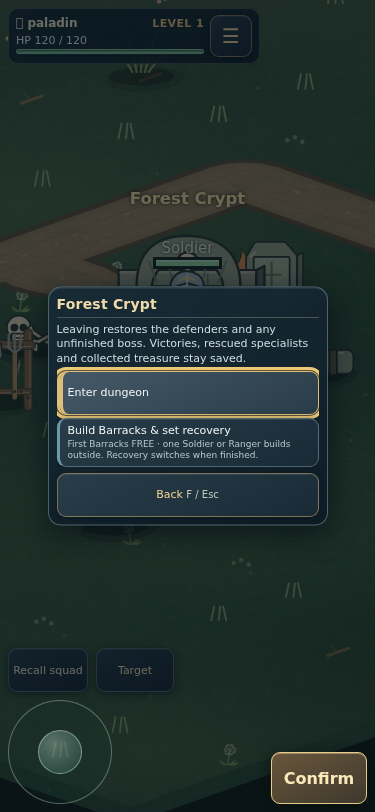
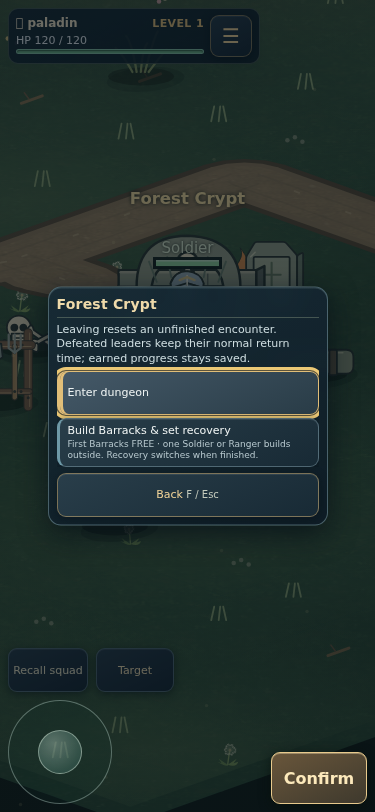
Finish dev131 release receipt and restore normal workflow [skip ci]

Changed region(s): [[0.1467, 0.4002, 0.8213, 0.4618]]

diff --git a/AGENTS.md b/AGENTS.md
@@ -1,4 +1,4 @@
-**Prepared dev.131 — dungeon camps and leader return rules:** Two-action first entrance menu builds a nearby Basic camp and selects recovery on completion; requested/nearby completed camps bypass repeated prompts. Five main dungeons and four Treasuries only; side dungeons stay direct/unchanged. Unfinished encounters reset. Defeated captains leave Treasuries empty until the existing 120-second timer, then captain/garrison return together; doors preserve cooldown and collection permission. Main victories/TRUE return rules and all rescues/collections/lost crowns persist. Main exits return beside their entrance. Focused local and native phone touch/save/bypass/reset/cooldown/recovery checks pass without JavaScript errors. Package-only publication pending; no broad CI. Scope: `docs/DUNGEON_CAMPS_DEV131.md`.
+**Published dev.131 — dungeon camps and leader return rules:** PR #367 / `edf89f0cffb61b91853ea5c8d065da0c1fde3526`; package-only run 39575019566 succeeded. All 12 checked live files and exact build match. Live phone first-menu/build/save/recovery, direct repeat entry, unfinished reset, Treasury empty cooldown/unchanged deadline/paired garrison return and direct side entry pass without JavaScript errors. Five main dungeons/four Treasuries only; side dungeons unchanged. Captain victory leaves the room empty for the existing 120-second return; doors preserve cooldown/collection permission. Main victories/TRUE progression and earned progress persist. Normal workflow restored and one-time publisher removed; no unfinished implementation/publication work remains for this update. Scope: `docs/DUNGEON_CAMPS_DEV131.md`; receipt: `docs/evidence/DUNGEON_CAMPS_DEV131_PUBLICATION_20261021.json`. Earlier deferred flash/captain observations remain recorded separately, not claimed fixed. Owner phone play next; no automatic further work.
 
 **Published dev.130 — gathering escort, Supplies and Treasurer expeditions:** PR #366 / `b1988401963c5a468317a348eb3a26711e9a7d8f`; package-only run 39572449344 succeeded. All 13 checked live files and exact build match. Live phone Supplies whole-company unload, combat/Recall/reload navigation, hidden/direct-source orders, and actual touch Little Treasurer mission/save/once-only return pass without JavaScript errors. Full Barracks expeditions recover prior specialist-cleared regions in 300 active seconds. Treasurer is the sole resource-working pet; combat skills unchanged. Focused local checks only, no broad CI; normal workflow restored and one-time publisher removed. Scope: `docs/GATHERING_ESCORT_DEV130.md`; receipt: `docs/evidence/GATHERING_ESCORT_DEV130_PUBLICATION_20261021.json`. Extra early fort bonuses undecided, unidentified captain report open, sunrise/sunset deferred. Owner phone play next; no automatic further work.
 

diff --git a/docs/DEVELOPMENT_STATE.md b/docs/DEVELOPMENT_STATE.md
@@ -1,4 +1,4 @@
-**Prepared dev.131 — dungeon camps and leader return rules:** Two-action first entrance menu builds a nearby Basic camp and selects recovery on completion; requested/nearby completed camps bypass repeated prompts. Five main dungeons and four Treasuries only; side dungeons stay direct/unchanged. Unfinished encounters reset. Defeated captains leave Treasuries empty until the existing 120-second timer, then captain/garrison return together; doors preserve cooldown and collection permission. Main victories/TRUE return rules and all rescues/collections/lost crowns persist. Main exits return beside their entrance. Focused local and native phone touch/save/bypass/reset/cooldown/recovery checks pass without JavaScript errors. Package-only publication pending; no broad CI. Scope: `docs/DUNGEON_CAMPS_DEV131.md`.
+**Published dev.131 — dungeon camps and leader return rules:** PR #367 / `edf89f0cffb61b91853ea5c8d065da0c1fde3526`; package-only run 39575019566 succeeded. All 12 checked live files and exact build match. Live phone first-menu/build/save/recovery, direct repeat entry, unfinished reset, Treasury empty cooldown/unchanged deadline/paired garrison return and direct side entry pass without JavaScript errors. Five main dungeons/four Treasuries only; side dungeons unchanged. Captain victory leaves the room empty for the existing 120-second return; doors preserve cooldown/collection permission. Main victories/TRUE progression and earned progress persist. Normal workflow restored and one-time publisher removed; no unfinished implementation/publication work remains for this update. Scope: `docs/DUNGEON_CAMPS_DEV131.md`; receipt: `docs/evidence/DUNGEON_CAMPS_DEV131_PUBLICATION_20261021.json`. Earlier deferred flash/captain observations remain recorded separately, not claimed fixed. Owner phone play next; no automatic further work.
 
 **Published dev.130 — gathering escort, Supplies and Treasurer expeditions:** PR #366 / `b1988401963c5a468317a348eb3a26711e9a7d8f`; package-only run 39572449344 succeeded. All 13 checked live files and exact build match. Live phone Supplies whole-company unload, combat/Recall/reload navigation, hidden/direct-source orders, and actual touch Little Treasurer mission/save/once-only return pass without JavaScript errors. Full Barracks expeditions recover prior specialist-cleared regions in 300 active seconds. Treasurer is the sole resource-working pet; combat skills unchanged. Focused local checks only, no broad CI; normal workflow restored and one-time publisher removed. Scope: `docs/GATHERING_ESCORT_DEV130.md`; receipt: `docs/evidence/GATHERING_ESCORT_DEV130_PUBLICATION_20261021.json`. Extra early fort bonuses undecided, unidentified captain report open, sunrise/sunset deferred. Owner phone play next; no automatic further work.
 

diff --git a/docs/DUNGEON_CAMPS_DEV131.md b/docs/DUNGEON_CAMPS_DEV131.md
@@ -34,6 +34,6 @@ Native IDs, body-safe homes, combat stats, ranged roles, captain profiles and ca
 
 Existing death-barracks, Treasury recovery, awakening-anchor and menu checks pass. The Treasury recovery regression suite retains its original collection-permission-after-reentry expectation. Awakening's old dead-guard-across-exit expectation changes to restored guards during an unfinished TRUE attempt, while fixed level/scaling and save assertions remain.
 
-Native phone at 375×812 uses actual touch first menu/build, saved construction, completion-selected recovery, direct repeat entry, guard/boss restoration on exit, outside arrival and defeat recovery. It also leaves/reenters a defeated Treasury before the deadline, confirms it empty, advances to the actual due time and enters for the full captain/garrison return. A side dungeon enters directly. No JavaScript errors. Evidence: `tools/visual-review/dungeon-camps-dev131/native-result.json` and screenshots. Focused local checks/build only; no broad GitHub CI or device matrix. Package-only publication pending.
+Native phone at 375×812 uses actual touch first menu/build, saved construction, completion-selected recovery, direct repeat entry, guard/boss restoration on exit, outside arrival and defeat recovery. It also leaves/reenters a defeated Treasury before the deadline, confirms it empty, advances to the actual due time and enters for the full captain/garrison return. A side dungeon enters directly. No JavaScript errors. Evidence: `tools/visual-review/dungeon-camps-dev131/native-result.json` and screenshots. Focused local checks/build only; no broad GitHub CI or device matrix. Published through PR #367 (`edf89f0cffb61b91853ea5c8d065da0c1fde3526`), package-only run 39575019566. All 12 checked public files and exact build match. The same final phone flow passed live without JavaScript errors (`live-result.json`). Normal workflow restored and temporary publisher removed. No implementation or release-cleanup tasks remain for this update. Receipt: `docs/evidence/DUNGEON_CAMPS_DEV131_PUBLICATION_20261021.json`.
 
 Sunrise/sunset flashes, the unidentified captain observation and unapproved extra Crypt/Archive/Mine fort bonuses remain separate open items.

diff --git a/docs/DOCUMENTATION_INDEX.md b/docs/DOCUMENTATION_INDEX.md
@@ -1,4 +1,4 @@
-Current implementation: [Dungeon camps and fresh defenses — dev.131](DUNGEON_CAMPS_DEV131.md), focused checks complete; publication pending.
+Current implementation: [Dungeon camps and fresh defenses — dev.131](DUNGEON_CAMPS_DEV131.md), published and live-verified; release cleanup complete. Receipt: `docs/evidence/DUNGEON_CAMPS_DEV131_PUBLICATION_20261021.json`.
 
 Current implementation: [Gathering escort, Supplies and resource expeditions — dev.130](GATHERING_ESCORT_DEV130.md), published and live-verified; receipt in `docs/evidence/GATHERING_ESCORT_DEV130_PUBLICATION_20261021.json`.
 
